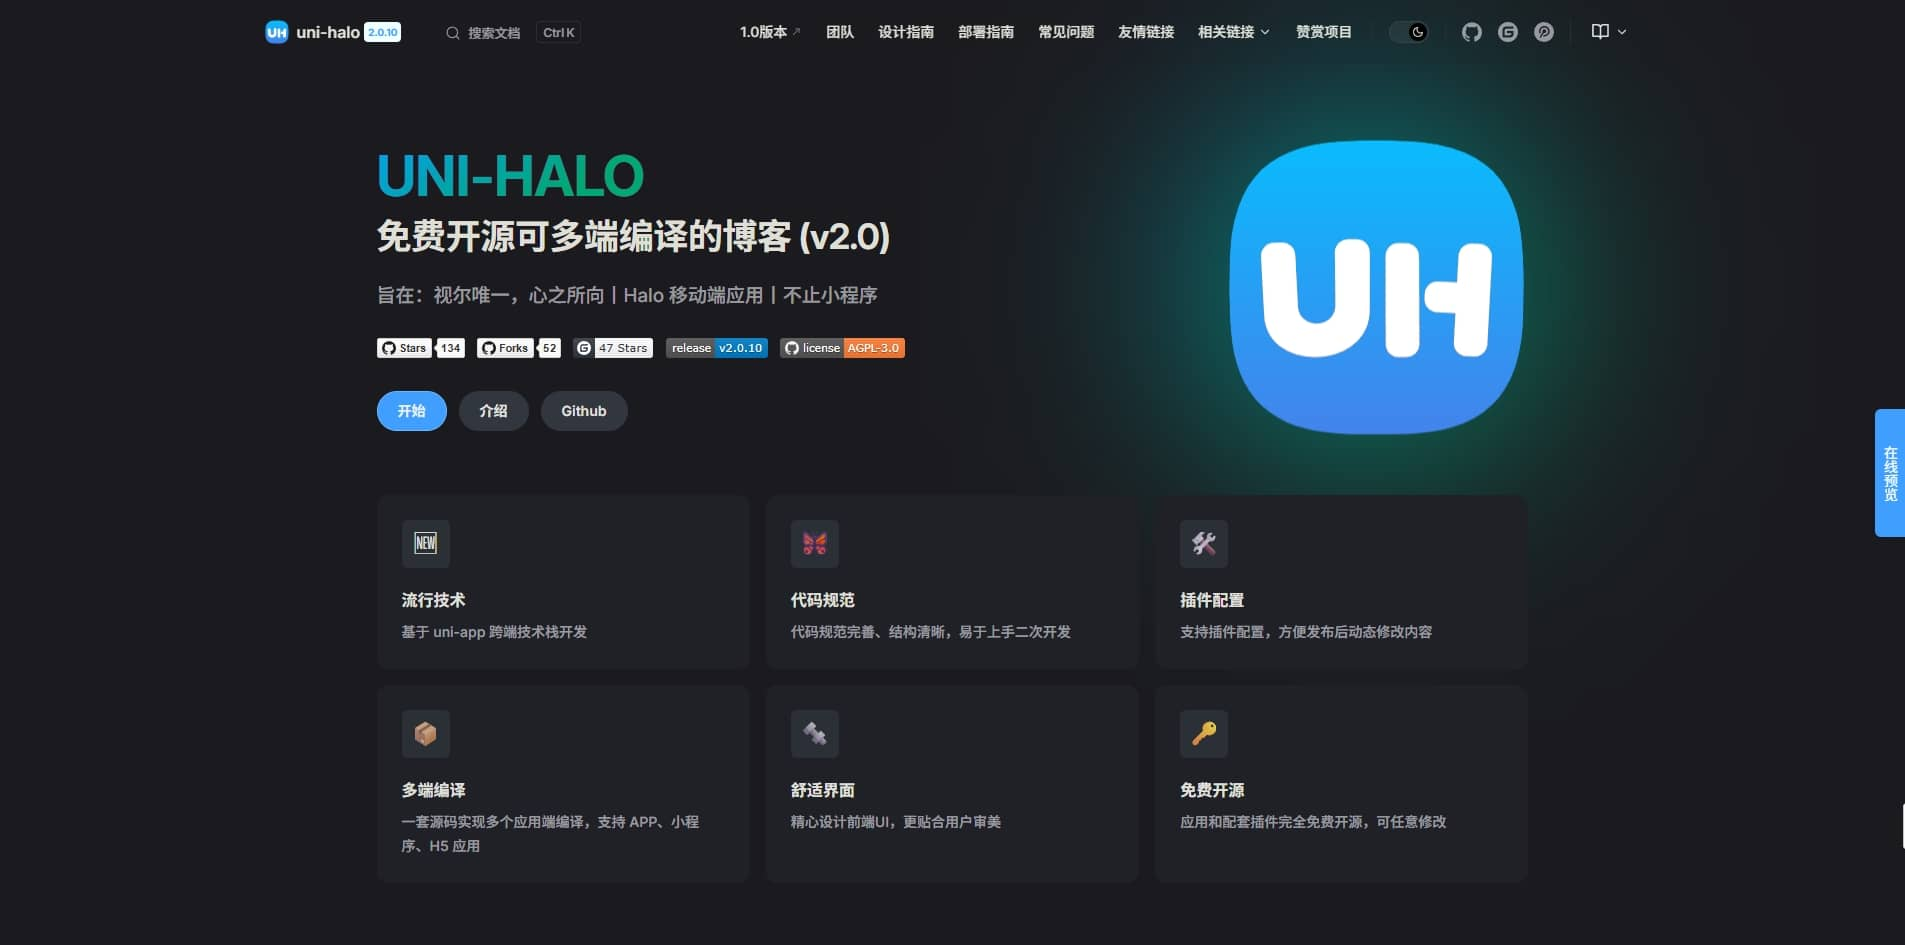
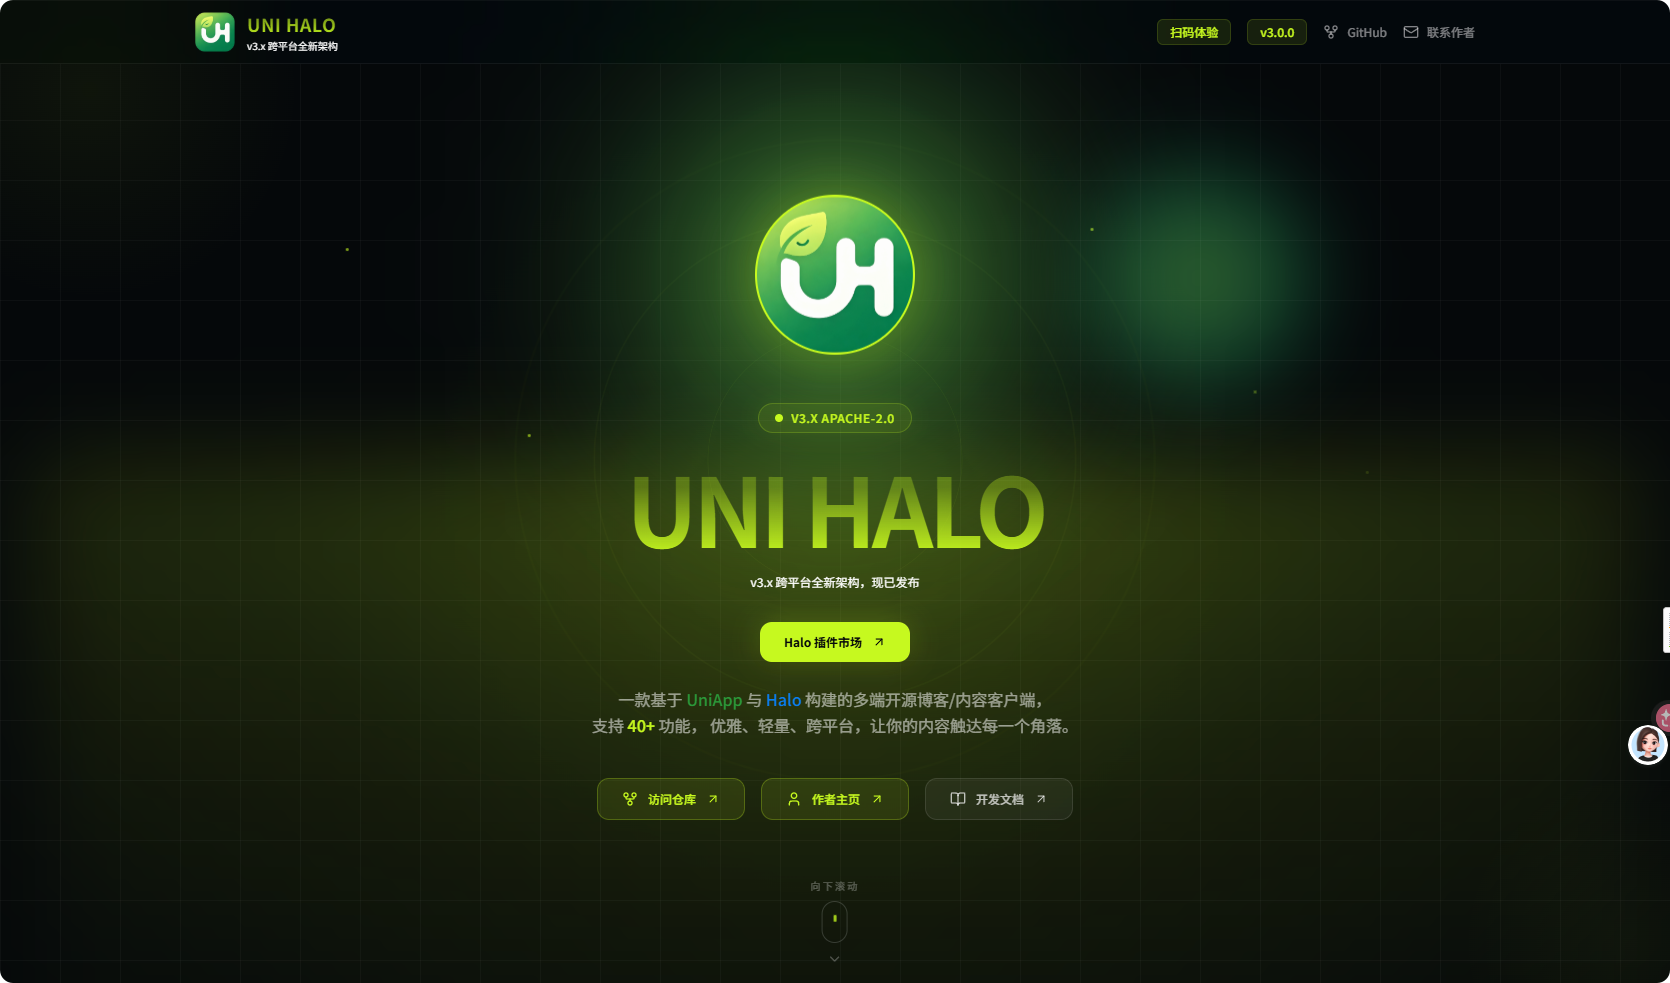
feat: UniHalo 网站地址更换为 uni-halo.ialley.cn 并更新截图

diff --git a/src/data/project.ts b/src/data/project.ts
@@ -2,6 +2,7 @@
 import uniHaloCover from "@/assets/projects/uni-halo.jpg";
 import home1Cover from "@/assets/projects/home1.jpg";
 import home2Cover from "@/assets/projects/home2.jpg";
+import uniHaloDocs from "@/assets/projects/uni-halo-docs.png";
 
 export enum ProjectCategory {
   All = "全部",
@@ -39,13 +40,13 @@ export const projects: Project[] = [
     description:
       "一个基于Halo Api + UniApp的个人博客系统，支持多平台部署（Web、微信小程序、桌面端）。它的设计初衷是为了满足我对个人博客的定制化需求和移动端体验，同时也希望通过这个项目来探索和实践一些新的技术和设计理念。",
     category: ProjectCategory.MiniProgram,
-    href: "https://uni-halo.925i.cn",
+    href: "https://uni-halo.ialley.cn/",
     cover: uniHaloCover,
     tags: [
       { name: "开源", classNames: "bg-green-500" },
       { name: "原创", classNames: "bg-neo-pink" },
     ],
-    screenshots: [],
+    screenshots: [{ url: uniHaloDocs, alt: "UniHalo 使用文档" }],
   },
   {
     id: "home2",
@@ -81,7 +82,7 @@ export const openSourceProjects: Project[] = [
     description:
       "一个基于Halo Api + UniApp的个人博客系统，支持多平台部署（Web、微信小程序、桌面端）。它的设计初衷是为了满足我对个人博客的定制化需求和移动端体验，同时也希望通过这个项目来探索和实践一些新的技术和设计理念。",
     category: ProjectCategory.MiniProgram,
-    href: "https://uni-halo.925i.cn",
+    href: "https://uni-halo.ialley.cn/",
     cover: uniHaloCover,
     tags: [{ name: "开源", classNames: "bg-green-500" }],
     screenshots: [],

diff --git a/src/views/Home/index.tsx b/src/views/Home/index.tsx
@@ -257,7 +257,7 @@ const Hero = () => {
               进入博客
             </a>
             <a
-              href='https://uni-halo.925i.cn'
+              href='https://uni-halo.ialley.cn/'
               target='_blank'
               rel='noopener noreferrer'
               className='bg-white neo-button rounded-2xl text-xl px-10 py-4 transform hover:-translate-y-1 transition-transform'

diff --git a/src/views/Layout/Footer.tsx b/src/views/Layout/Footer.tsx
@@ -44,7 +44,7 @@ export const Footer = () => {
             个人博客
           </a>
           <a
-            href="https://uni-halo.925i.cn"
+            href="https://uni-halo.ialley.cn/"
             target="_blank"
             rel="noopener noreferrer"
             className="hover:text-neo-blue transition-colors"

diff --git a/src/config/index.ts b/src/config/index.ts
@@ -78,7 +78,7 @@ export const navBars: NavBar[] = [
     type: "href",
     id: "unihalo",
     title: "UniHalo",
-    href: "https://uni-halo.925i.cn",
+    href: "https://uni-halo.ialley.cn/",
     visible: true,
   },
   {
